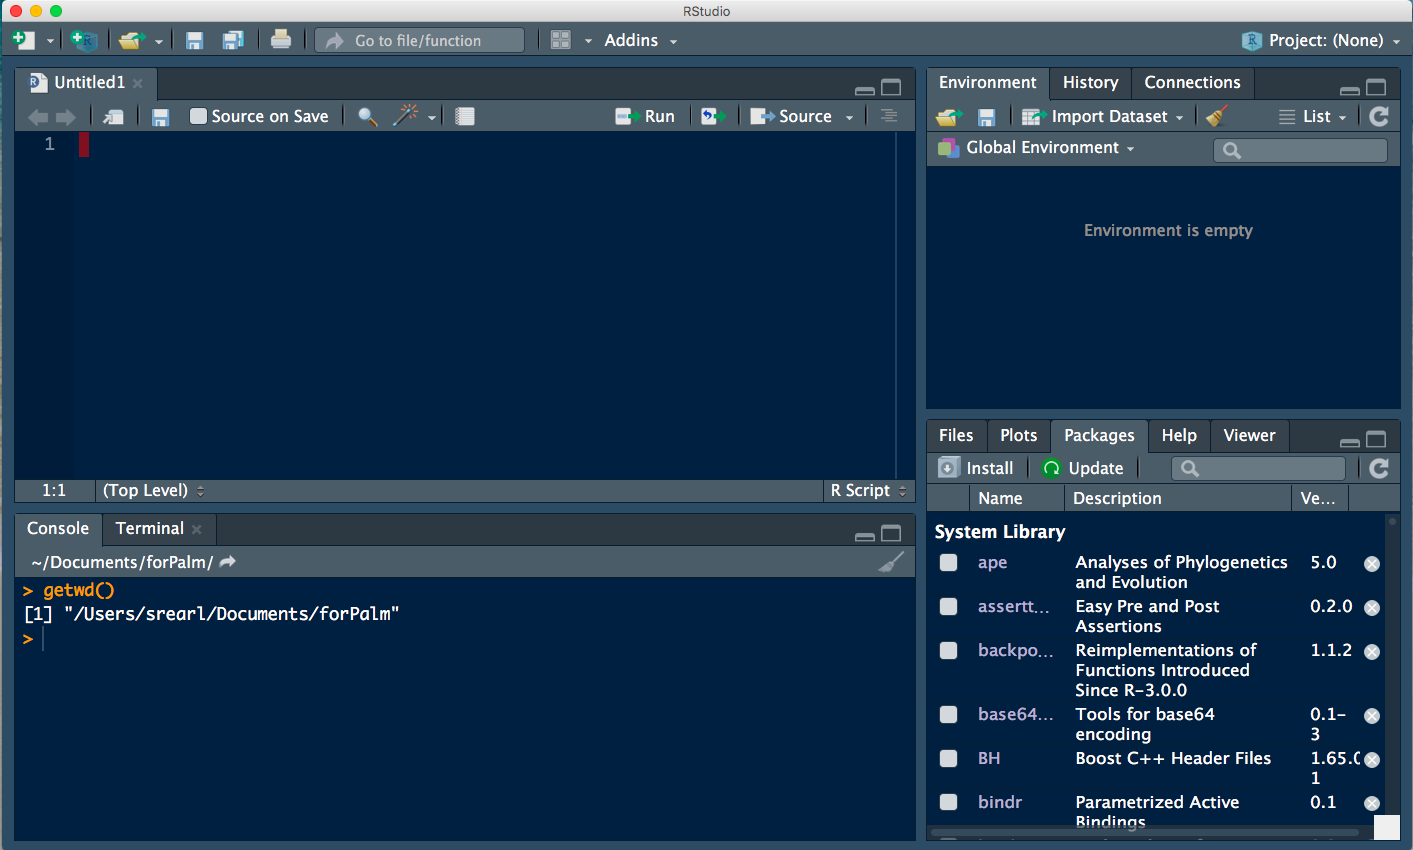
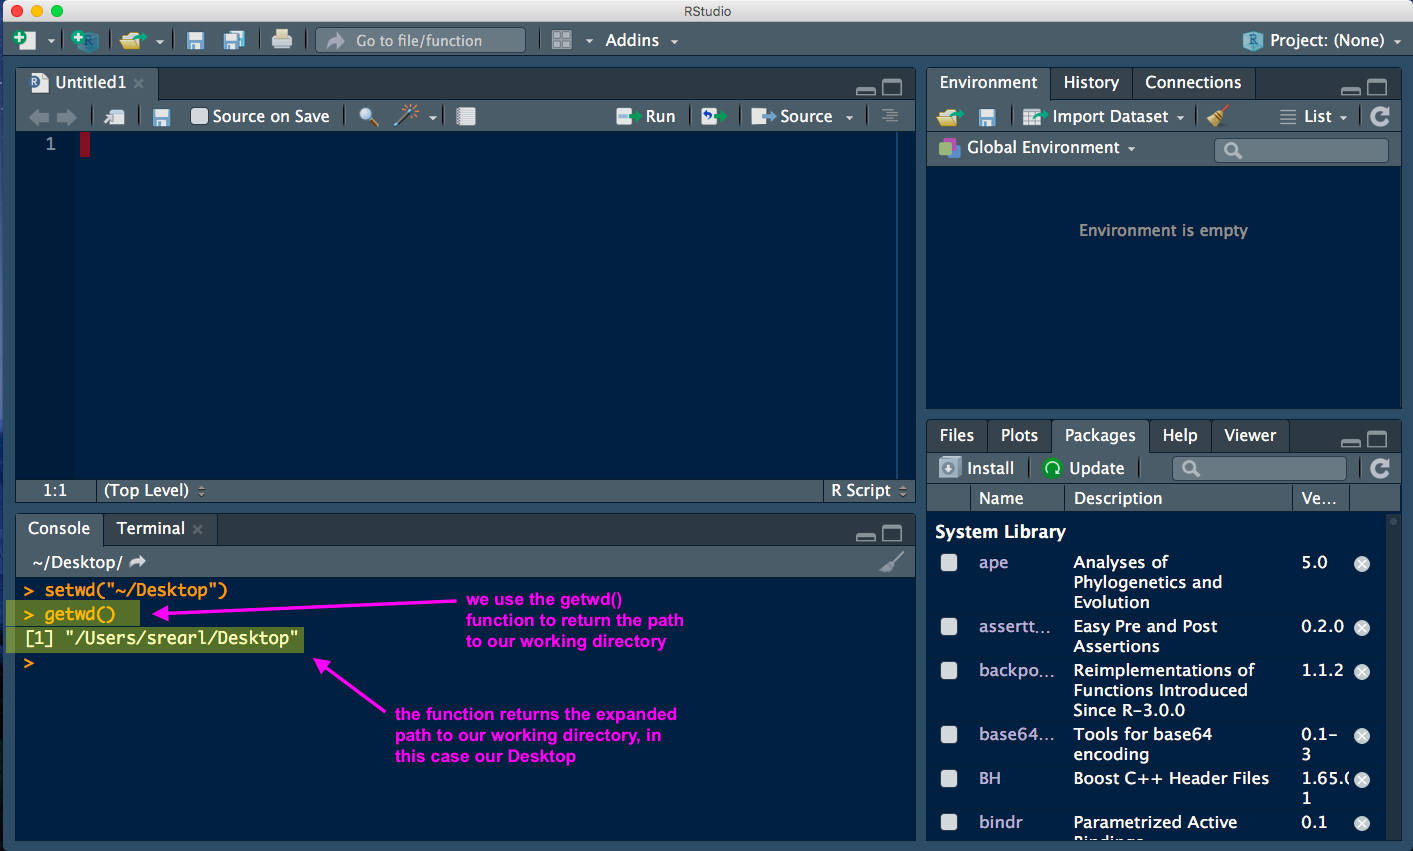
annotated figures and wrapped up text for finding dirs with rstudio exercise

diff --git a/where_is_my_file.md b/where_is_my_file.md
@@ -7,11 +7,17 @@ From the *Session* tab in RStudio, select *Set Working Directory* to *Choose Dir
 
 This tool will open a familair file navigation GUI (e.g., Finder in Mac; Explorer in Windows). Navigate to a directory - any directory, but it must be a directory (not a file). This will tell RStudio to use this location as our working directory.
 
-**navgiate to a directory (not a file!) and select open**
+**navgiate to a directory (not a file!) and select Open - in this example, navigating to the Desktop, which is just a directory on the computer**
 ![navigate-to-directory](figures/navigate-to-directory.png)
 
-Setting the working directory is useful in itself, and something that you will do often when working with R, but our purpose here is to get the path (like the address) to our working directory. For that we can use the R function getwd(), which is an instruction to return the file path to the working directory.
+After you set the working directory using the Session tool in RStudio, you will see the results of this action in the R console (typically the lower-left quadrant within RStudio). In our example, having set the Desktop as the working directory, the output is <p style="color: orange;">\>setwd("~/Desktop")</p>. Essentially what the Session tool has done is to call the commonly used setwd() function in R, which is the function to set the working directory - in our case, we had used the Session tool but, if we had known the path to our directory, we could have called the function <p style="color: orange;">setwd("~/Desktop")</p> to get the same result. Note here that the path to our Desktop has the form ~/Desktop. The tilde (~) is a short-cut to the home directory. Often this abbreviated form will work fine but not always, and sometimes you will need to include the full path to files and directories in your programming. For our purposes here (i.e., practicing navigating our computer by file path), we definitely want the full path.
+
+**the Session tool in RStudio will set the working directory to the directory we selected with the file navigator**
+![path-is-set](figures/path-is-set.png)
+
+Setting the working directory is useful in itself, and something that you will do often when working with R, but our purpose here is to get the path (like the address) to our working directory. For that we can use the R function getwd(), which is an instruction to return the file path to the working directory. getwd() will return the full path (commonly referred to as the expanded path) of our working directory without using the tilde notation. Note that the location is the same with or without the tilde, the tilde is merely an abbreviation.
 
 **use the getwd() function in the R console to get the full path to our working directory**
 ![get-working_dir](figures/get-working_dir.png)
 
+Practice this with many different directories on your computer to get a good sense of where items exist within your computer's file structure, and how you can navigate to them in a programming environment - this is an essential skill for successful programming.
